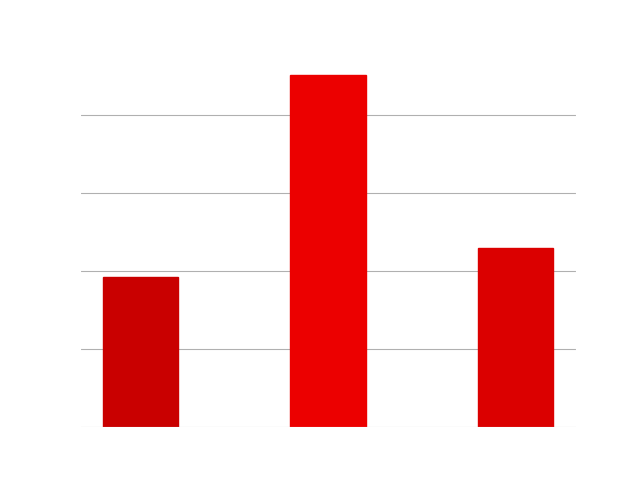
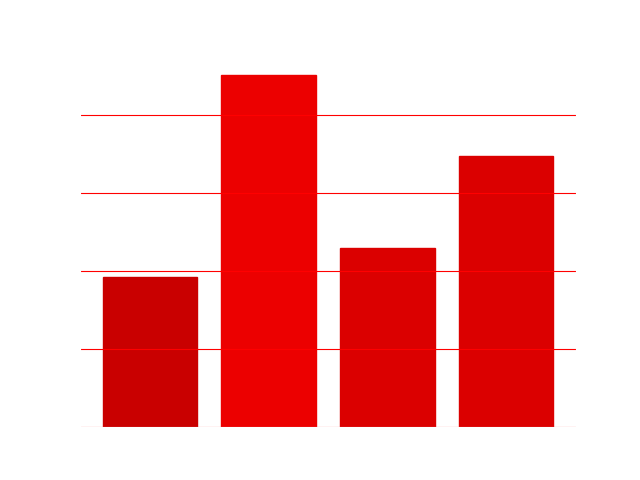
Adds 43-1704B and stores ratings in csv

Changed region(s): [[0.3438, 0.1562, 0.875, 0.9062], [0.25, 0.5625, 0.3125, 0.9062]]

diff --git a/stats.py b/stats.py
@@ -1,53 +1,84 @@
+import sys
 import csv
+import time
 import requests
 import matplotlib.pyplot as plt
 
-status = requests.get("https://codeforces.com/api/user.status?handle=06tron")
-subs = status.json()["result"]
+# If arguments are passed (by Makefile), then use them to
+#   complete the unfinished times.csv entry.
+# subs is an array of all my submissions, which I think are
+#   sorted by time. The elements are codeforces Submission
+#   objects: https://codeforces.com/apiHelp/objects#Submission
+if len(sys.argv) > 1:
+	arg = sys.argv[1]
+	id = int(arg[arg.find('-')+1:-5])
+	letter = arg[-5:-4]
+	insert = time.strftime(",%Y-%m-%d %H:%M:%S,%s,", time.gmtime())
+	insert += sys.argv[2] + ','
+	link = "https://codeforces.com/api/user.status?handle=06tron"
+	subs = requests.get(link).json()["result"]
+	with open("times.csv", 'a') as times:
+		for s in subs:
+			if id == s["contestId"] and letter == s["problem"]["index"]:
+				insert += str(s["problem"]["rating"]) + '\n'
+				times.write(insert)
+				break
+
+# The number of characters in template.cpp
+template_chars = 152
+
+# Problems that took this long were most likely not completed in
+#   one sitting, so they shouldn't be graphed.
+minute_cutoff = 500
+
+# These four arrays are all the same length, as the elements
+#   correspond to the bars in the generated plots.
 ids = []
 cpm = []
 minutes = []
 ratings = []
-# number of characters in template.cpp
-template_chars = 152
 
-with open("times.csv", 'r') as times:
-	csv_rows = csv.reader(times)
-	next(csv_rows)
-	i = len(subs) - 1
-	for row in csv_rows:
-		id = int(row[0][:-1])
-		c = row[0][-1:]
-		while subs[i]["contestId"] != id or subs[i]["problem"]["index"] != c:
-			i -= 1
-		min = (int(row[4]) - int(row[2])) / 60
-		if min < 500:
-			ids.append(row[0])
-			cpm.append((int(row[5]) - template_chars) / min)
-			minutes.append(min)
-			ratings.append(subs[i]["problem"]["rating"])
+# Read times.csv and subs simultaneously, extracting each
+#   problem's rating and updating the four arrays
+with open("times.csv") as times:
+    reader = csv.DictReader(times)
+    for row in reader:
+        min = (int(row["end_seconds"]) - int(row["start_seconds"])) / 60
+        if min < minute_cutoff:
+            ids.append(row["id"])
+            cpm.append((int(row["characters"]) - template_chars) / min)
+            minutes.append(min)
+            ratings.append(int(row["rating"]))
 
-def makebar(x, y):
-	ax = plt.gca()
-	bars = ax.bar(x, y, width = 0.4)
-	for i in range(len(x)):
-		red = ((3500 - ratings[i]) / 2700)**2
-		bars[i].set_color((red, 0, 0))
-	ax.yaxis.grid()
-	ax.set_axisbelow(True)
+# Set up a bar plot with horizontal lines, and change the colors
+#   of the bars to represent their problem's rating. Darker red
+#   means more difficult.
+def make_bar(x, y):
+    ax = plt.gca()
+    bars = ax.bar(x, y, width=0.8)
+    for i in range(len(x)):
+        red = ((3500 - ratings[i]) / 2700)**2
+        bars[i].set_color((red, 0, 0))
+    ax.yaxis.grid()
 
+# Make most things white so the plots are easily readable on a
+#   dark background. Red gridlines make it easier to see the
+#   differences in bar colors.
 colors = {
-	"axes.labelcolor": "white",
-	"axes.edgecolor": "white",
-	"xtick.color": "white",
-	"ytick.color": "white"
+    "axes.labelcolor": "white",
+    "axes.edgecolor": "white",
+    "xtick.color": "white",
+    "ytick.color": "white",
+	"grid.color": "red"
 }
 
+# Generate two bar charts, one for minutes to solve a problem,
+#   and the other for typing speed while solving.
 with plt.rc_context(colors):
-	makebar(ids, minutes)
-	plt.ylabel("Minutes")
-	plt.savefig("minutes.png", transparent=True)
-	plt.clf()
-	makebar(ids, cpm)
-	plt.ylabel("Characters Per Minute")
-	plt.savefig("cpm.png", transparent=True)
+    make_bar(ids, minutes)
+    plt.ylabel("Minutes")
+    plt.savefig("minutes.png", transparent=True)
+    plt.clf()
+    make_bar(ids, cpm)
+    plt.ylabel("Characters Per Minute")
+    plt.savefig("cpm.png", transparent=True)

diff --git a/normal/43-1704B.cpp b/normal/43-1704B.cpp
@@ -1,0 +1,28 @@
+#include <iostream>
+
+int main() {
+	std::ios_base::sync_with_stdio(false);
+	std::cin.tie(NULL);
+	int tests;
+	std::cin >> tests;
+	while (tests--) {
+		int n, x, min, max, changes = 0;
+		std::cin >> n >> x >> min;
+		max = min;
+		for (int i = n-1; i--;) {
+			int a;
+			std::cin >> a;
+			if (a < min) {
+				min = a;
+			}
+			if (a > max) {
+				max = a;
+			}
+			if (max-min > 2*x) {
+				++changes;
+				max = min = a;
+			}
+		}
+		std::cout << changes << '\n';
+	}
+}
